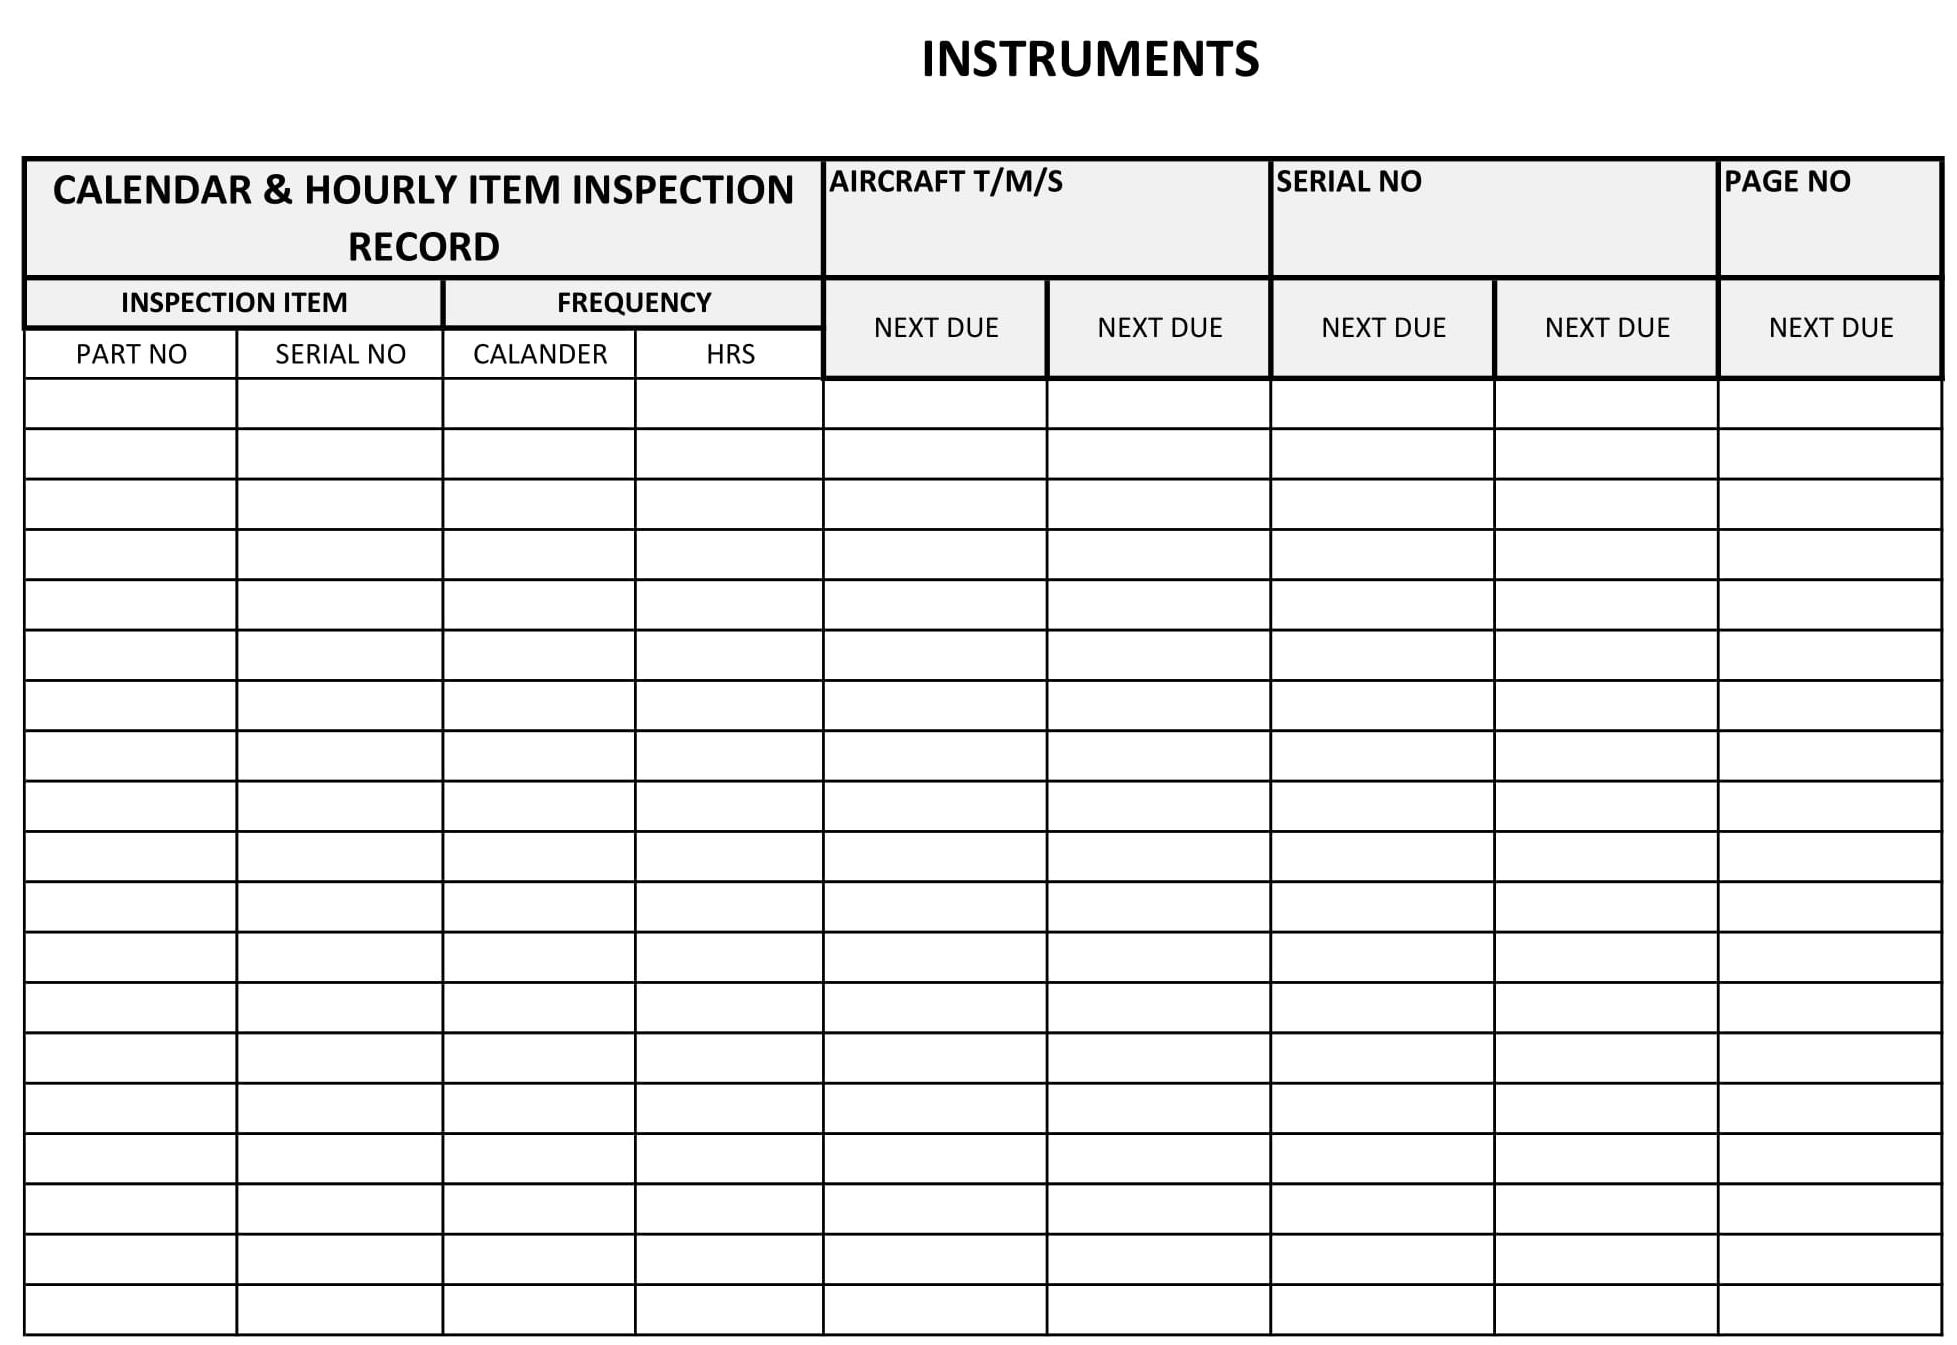
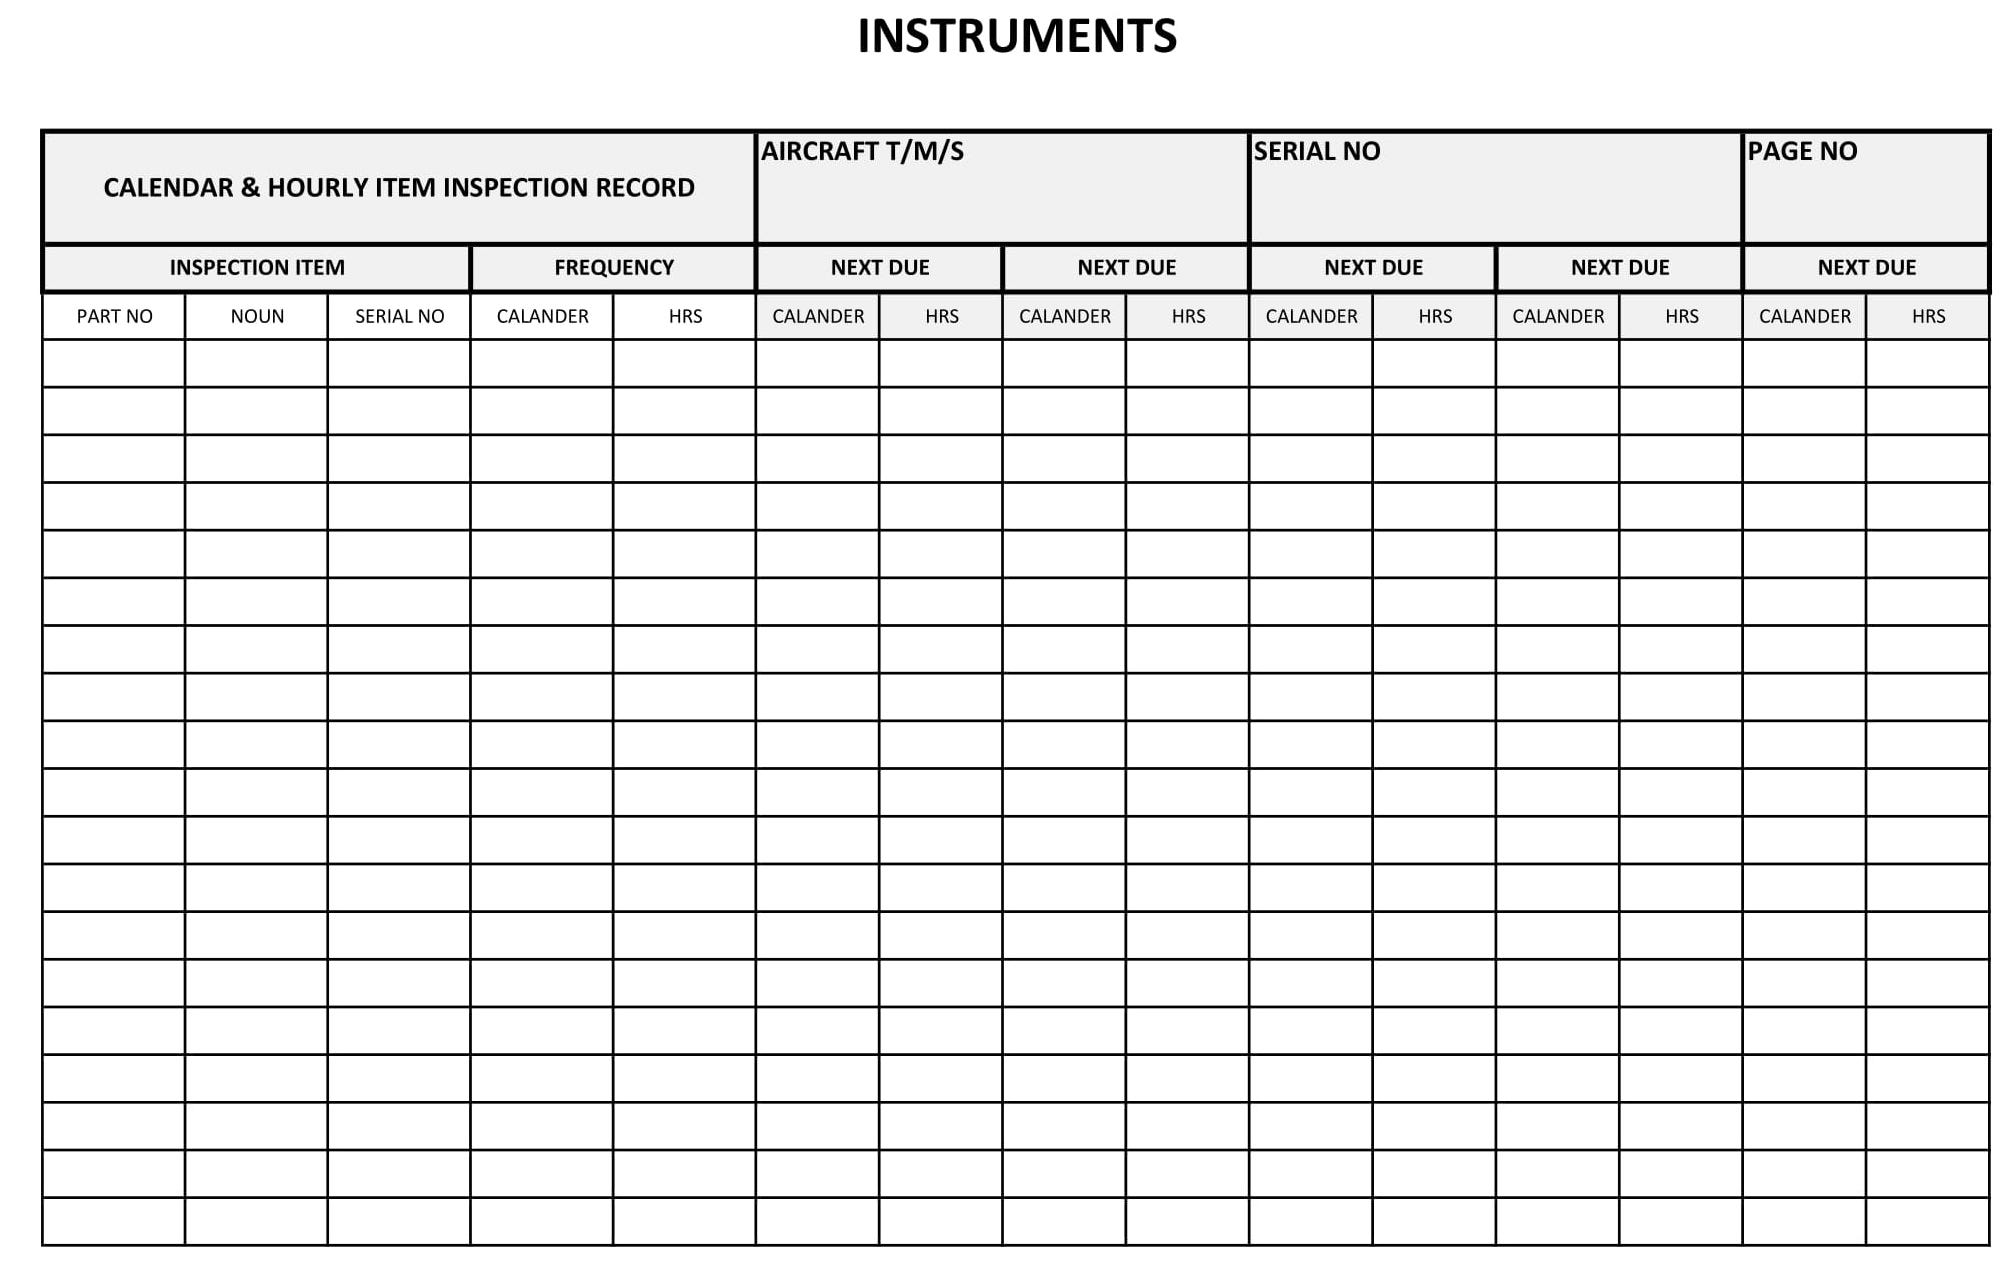
781D

Changed region(s): [[0.0, 0.0923, 0.9974, 1.0], [0.4052, 0.0, 0.6546, 0.0615]]

diff --git a/app/assets/stylesheets/pdf/pdf_inspection_record.scss b/app/assets/stylesheets/pdf/pdf_inspection_record.scss
@@ -4,7 +4,7 @@
   left: $left;
 }
 .inspection_record_pdf {
-  font-size: 48px;
+  font-size: 24px;
   // .trade {
   //   @include position-abs-mixin(50px, 1000px);        
   // }
@@ -23,32 +23,41 @@
   
   
   .parts_data {
-    @include position-abs-mixin(360px, 50px);
-    font-size: 36px;
+    @include position-abs-mixin(345px, 65px);    
   }
   
   .part_number_td{
-    width: 350px;
-    
+    width: 170px;    
+  }
+  .description_td{
+    width: 180px;
+    font-size: 20px;
+    height: 40px;
   }
   .serial_td{
-    width: 250px;
+    width: 166px;
     
   }
   .calender_td{
-    width: 210px;    
-  }
-  .flying_log_td{
-    width: 370px;
-    font-size: 20px;
-  }
+    width: 170px;    
+    text-align: center;
+  }  
   .hours_td{
-    width: 220px;    
+    width: 180px;   
+    text-align: center; 
+  }
+  .sch_calender_td{
+    width: 150px;    
+    text-align: center;
+  }  
+  .sch_hours_td{
+    width: 150px;   
+    text-align: center; 
   }
   
   table{
     tr {
-      height: 48px;
+      height: 47px;
       
     }
   }
